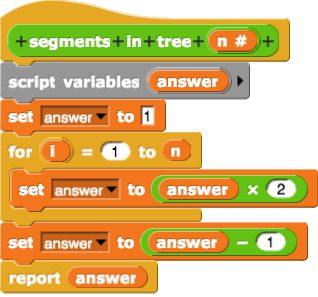
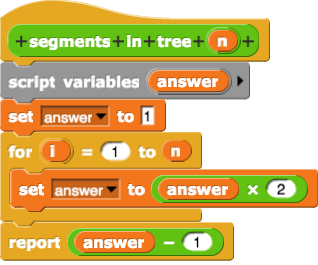
U7 L1 SE, TG complete
Dealt with suggested edits (except for two, marked). TG complete. One
graphic changed.

diff --git a/cur/teaching-guide/U7/lab-pages/1-recursive-reporters.html b/cur/teaching-guide/U7/lab-pages/1-recursive-reporters.html
@@ -8,38 +8,29 @@
 
 	<body>
 		<h2>Programming Lab 1: Recursive Reporters</h2>
-        <div class="comment">Pulled from <a href="/bjc-r/cur/teaching-guide/U7/old/u6-main.html?course=bjc4nyc_2015-2016_teacher.html&novideo&noassignment">old version</a> --MF</div>
-        <p>This short lab consists of a Getting Started in which students experiment with simple recursive functions, followed by an explanation of how recursive reporters differ in structure from recursive commands, and more simple exercises.</p> 		
+        <p>This lab extends the learning students have done about recursive commands to <strong>recursive reporters</strong>, functions that use recursions for organization and bookkeeping. Students create and experiment with simple recursive reporters, and learn how recursive reporters differ in structure from recursive commands.</p> 		
 
 		<h3>Pacing:</h3>
 		<div>
-			The 3 lab pages could be split across X or X days (X-X minutes). Expected times to complete follow:
+			The 3 lab pages could be split across 2 or 3 days (100-150 minutes). Expected times to complete follow:
 			<ul>
-				<li>X-X minutes (X-X class periods) on <a href="/bjc-r/cur/programming/7-recursive-reporters/1-recursive-reporters/1-counting-trees.html?topic=nyc_bjc%2F7-recursive-reporters.topic&course=bjc4nyc_2015-2016.html&novideo&noassignment">Counting Trees</a></li>
-				<li>X-X minutes (X-X class periods) on <a href="/bjc-r/cur/programming/7-recursive-reporters/1-recursive-reporters/2-working-with-reporters.html?topic=nyc_bjc%2F7-recursive-reporters.topic&course=bjc4nyc_2015-2016.html&novideo&noassignment">Working with Recursive Reporters</a></li>
-				<li>X-X minutes (X-X class periods) on <a href="/bjc-r/cur/programming/7-recursive-reporters/1-recursive-reporters/3-writing-recursive-reporters.html?topic=nyc_bjc%2F7-recursive-reporters.topic&course=bjc4nyc_2015-2016.html&novideo&noassignment">Writing Recursive Reporters</a></li>
+				<li>50-75 minutes (1-1.5 class periods) on <a href="/bjc-r/cur/programming/7-recursive-reporters/1-recursive-reporters/1-counting-trees.html?topic=nyc_bjc%2F7-recursive-reporters.topic&course=bjc4nyc_2015-2016.html&novideo&noassignment">Counting Trees</a> and <a href="/bjc-r/cur/programming/7-recursive-reporters/1-recursive-reporters/2-working-with-reporters.html?topic=nyc_bjc%2F7-recursive-reporters.topic&course=bjc4nyc_2015-2016.html&novideo&noassignment">Working with Recursive Reporters</a></li>
+				<li>50-75 minutes (1-1.5 class periods) on <a href="/bjc-r/cur/programming/7-recursive-reporters/1-recursive-reporters/3-writing-recursive-reporters.html?topic=nyc_bjc%2F7-recursive-reporters.topic&course=bjc4nyc_2015-2016.html&novideo&noassignment">Writing Recursive Reporters</a></li>
             </ul>
 		</div>
-
-
-		<h3>Prepare:</h3>
-		<div>
-			<ul>
-				<li></li>
-			</ul>
-		</div>
-
 
 		<h3>Students will:</h3>
 		<div class="sidenoteBig">
 			<strong>Looking Ahead</strong>
 			<ul>
-				<li></li>
+				<li>In the next lab, students will explore different sorting algorithms, one of the most common and valuable uses of recursive reporters.</li>
 			</ul>
 		</div>
 		<div>
 			<ul>
-				<li>...</li>
+				<li>Solve problems using recursive reporters.</li>
+				<li>Learn about the similarities and differences between recursive reporters and recursive commands.</li>
+				<li>Describe the use and utility of operations and combiners in recursive reporters.</li>
 			</ul>
 		</div> 
 			  
@@ -50,11 +41,12 @@
 				<li>
 					<strong>Page 1: Counting Trees.</strong>
 					<ul>
-						<li>Debugging: <a href="" target="_blank"></a></li>
 						<li>
-							Discussion: These discussion questions...
+							Discussion: What is a recursive reporter, and how does it behave?
 							<ul>
-								<li>...</li>
+								<li><strong>Important note:</strong> hold this discussion after students have worked on Betty's recursive reporter. If timing permits you can continue directly to the next page. Ask students to present their code for Betty's recursive reporter.</li>
+								<li>What does the recursive reporter call?</li>
+								<li>Why is a base case important?</li>
 							</ul>
 						</li>
 					</ul>
@@ -62,11 +54,12 @@
 				<li>
 					<strong>Page 2: Working with Recursive Reporters.</strong>
 					<ul>
-						<li>Debugging: <a href="" target="_blank"></a></li>
 						<li>
-							Discussion: These discussion questions...
+							Discussion: What issues do you have to think about when building a recursive reporter?
 							<ul>
-								<li>...</li>
+								<li>What does the <code>report</code> block do?</li>
+								<li>How can you be sure a recursive reporter will eventually reach a base case?</li>
+								<li>Why is <code>join words</code> useful in the recursive reporters on this page?</li>
 							</ul>
 						</li>
 					</ul>
@@ -74,30 +67,18 @@
 				<li>
 					<strong>Page 3: Writing Recursive Reporters.</strong>
 					<ul>
-						<li>Debugging: <a href="" target="_blank"></a></li>
 						<li>
-							Discussion: These discussion questions...
+							Discussion: How do I use operations and combiners in recursive reporters?
 							<ul>
-								<li>...</li>
+								<li>What math operations could be used in a recursive reporter, and how do they work?</li>
+								<li>What string operations could be used in a recursive reporter, and how do they work?</li>
+								<li>What list operations could be used in a recursive reporter, and how do they work?</li>
 							</ul>
 						</li>
 					</ul>
 				</li>
 			</ul>
 		</div>
-
-
-		<h3>Assignments:</h3>
-		<div><ul><li>...</li></ul></div>
-
-			
-		<!--<h3>Look For:</h3>
-		<div><ul><li>...</li></ul></div>
-
-			
-		<h3>Related Resources:</h3>
-		<div><ul><li>...</li></ul></div>-->
-
 			
 		<h3>Tips:</h3>
 		<div>
@@ -105,19 +86,30 @@
             	<li>
                 	<strong>Page 1: Counting Trees.</strong>
                     <ul>
-						<li>...</li>
+						<li>As students complete the table, see if they are using Snap<em>!</em> to do the work or are counting by hand. If counting by hand, students may miss some of the branches, and may miss the overall concept of finding a pattern from one level to the next. Remind them about the recursion in how <code>tree</code> is built.</li>
+						<li>Students may need a refresher on the phrase "power of two".</li>
+						<li>Even though there is a note on this page about it, students often forget they must hit <strong>Apply</strong> before they can use a block recursively.</li>
+						<li>For students having trouble writing the recursion, ask them what they would write in language. This may help them build a useful description.</li>
+						<li>It's okay to move on if not all students have successfully built the recursive reporter. Some correct code appears on the next page, and another opportunity is given to solve a similar problem.</li>
                     </ul>
                 </li>
             	<li>
                 	<strong>Page 2: Working with Recursive Reporters.</strong>
                     <ul>
-						<li>...</li>
+						<li>The work on the <code>triangles in fractal</code> block should go very similarly to the work on the previous page. Students may need a moment to figure out the relationship, either through a look back at the code from Unit 6, or by making a table.</li>
+						<li>One potential mistake here is for students to count only the smallest triangles. Resolve this by having students build a level 2 triangle fractal, then asking them to count the triangles. They should say there are 4 triangles, not 3, and this will help them discover the relationship.</li>
+						<li>For the two blocks involving list items, an important piece is that a recursive reporter needs to report one complete answer, which is why the <code>join words</code> combiner is used. The recursive command doesn't need to deal with this, because it can <code>say</code> each item then dump it. The use of these combiners will be the main focus on the next page.</li>
+						<li>If students have trouble with the final coding problem here, point them back to the <code>string items together from</code> block above. The code used here should be very similar, except that students need to adjust one of the endpoints for the recursive call. Note that this means there is more than one correct recursive call that can be used; if students finish early you can ask them to try and solve it another way.</li>
                     </ul>
                 </li>
             	<li>
                 	<strong>Page 3: Writing Recursive Reporters.</strong>
                     <ul>
-						<li>...</li>
+						<li>The initial exercise on factorial should be a good check of students' progress on the previous pages, especially their understanding of how to build a recursive call.</li>
+						<li>Students may have more difficulty using list and string operations than math operations in recursion. When possible, show how the list and string operations behave like math operations (producing a single answer from two, for example).</li>
+						<li>The <code>letter count</code> activity can be solved without recursion. If students do this, good! Show their solution along with the recursive solution. You should let these students know that learning recursion is still important, and that many problems are more easily solved with recursion.</li>
+						<li>If students are having trouble with building the recursive call in letter count, have them write a sentence, then cover up the first word. Then cover the first and second words. This could help them see the potential for a recursive solution.</li>
+						<li>If time is tight, skip the <code>my join words</code> task.</li>
                     </ul>
                 </li>
 			</ul>
@@ -127,13 +119,13 @@
 		<!--<h3>Solutions</h3>
 		<div><ul><li>...</li></ul></div>-->
 			
-			
+<!--			
 		<h3>Correlation with AP CS Principles Framework<a name="AP" class="anchor">&nbsp;</a></h3>
 		<div class="apStandards">
-			<!--<h4>Computational Thinking Practices:</h4>
+			<h4>Computational Thinking Practices:</h4>
 			<ul>
 				<li>Coming soon...</li>
-			</ul>-->
+			</ul>
 			<h4>Essential Understandings:</h4>
 			<ul>
 				<li>Coming soon...</li>
@@ -147,7 +139,7 @@
 				<li>Coming soon...</li>
 			</ul>
 		</div>			
-
+-->
 
 	</body>
 </html>

diff --git a/cur/programming/7-recursive-reporters/1-recursive-reporters/3-writing-recursive-reporters.html b/cur/programming/7-recursive-reporters/1-recursive-reporters/3-writing-recursive-reporters.html
@@ -45,10 +45,8 @@
         <div class="forYouToDo">
             <p>Word processing programs count the number of words and letters in documents. One way to count the number of letters in a phrase is to use a recursive reporter.</p>
             <ol start="4">
-                <div class="commentBig">Can we use a phrase that is more familiar to the high schooler's experience? --MF</div>
+                <div class="commentBig">Can we use a phrase that is more familiar to the high schooler's experience? --MF  Such as? These are the first words of the Declaration of Independence. I do not want to use the Pledge of Allegiance. -BK</div>
                 <li>The phrase <strong>"in the course of human events"</strong> has 24 letters. How many letters are there in the phrase <strong>"When in the course of human events"</strong>?</li>
-                <li><div class="commentBig">I had to read this ("37-word" problem) many times to understand. Wording might need an adjustment. --MF</div>
-                How does the number of letters in a 37-word sentence compare to the number of letters in its last 36 words?</li>
                 <li>Recursion always needs a base case to stop the script from calling itself forever. What sort of base case might we use for this situation?</li>
                 <li>
                 	Create a <code>letter count</code> block that takes a list of words as input and reports the total number of letters in all the words. The <code>all but first of</code> block may be useful, but there is more than one way to do this.<br />
@@ -64,7 +62,9 @@
                 <div class="todo">
                     <p>Again, I am  concerned with teaching recursion as "a more complicated way to do what you already know how to do." I don't think <code>my join words</code> works because it can be done so much more quickly <em>non-recursively</em> by using <code>combine</code>. I <em>do</em> like <code>letter count</code> though because it <em>does</em> simplify the code. --MF<br />
                     <img class="indent" src="/bjc-r/img/7-recursive-reporters/recursive-letter-count.png" alt="" title="" /></p>
-                    <p>As noted in email, I don't think <code>letter count</code> is an exception, as Mary does. But more important, I don't think students can easily compare their <code>my join words</code> with the <code>join words</code> in the tools library, because the latter is variadic, taking multiple strings as inputs rather than taking one single list of strings. As a result, its code uses the sort of hidden and obscure &quot;input list&quot; feature of Snap<em>!</em>, which we haven't taught and I'd rather avoid teaching, at least in the middle of teaching other hard stuff. --bh</p>
+                    <p>As noted in email, I don't think <code>letter count</code> is an exception, as Mary does. But more important, I don't think students can easily compare their <code>my join words</code> with the <code>join words</code> in the tools library, because the latter is variadic, taking multiple strings as inputs rather than taking one single list of strings. As a result, its code uses the sort of hidden and obscure &quot;input list&quot; feature of Snap<em>!</em>, which we haven't taught and I'd rather avoid teaching, at least in the middle of teaching other hard stuff. --bh
+					</p>
+					<p>I need a suggestion to change this. Or is the suggestion to delete the join-words task? Any other things to replace it? Also we should use "empty?" when possible, not "length = 0". -BK</p>
                 </div>
             </ol>
         </div>
@@ -74,13 +74,9 @@
         <div class="forYouToDo">
             <ol start="9">
                 <li>
-                    Build this <code>plurals</code> block, then describe how it works. (Yes, you've already built a simpler version of <code>plurals</code> using <code>map</code>; we want you to see that the same problem can be solved in multiple ways.)<br />
+                    Build this <code>plurals</code> block, then describe how it works. (You've already built a simpler version of <code>plurals</code> using <code>map</code>; we want you to see that the same problem can be solved in multiple ways.)<br />
                     <img class="indent" src="/bjc-r/img/7-recursive-reporters/plurals.png" alt="plurals" />
                 </li>
-                <div class="todo">
-                  <p>I updated the zoom on this pic, but I still have concerns with the recursion approach that is used here too. --MF</p>
-                  <p>I want to keep this example because of L4, so I added some justifying text here. --bh</p>
-                </div>
             </ol>
         </div>
     

diff --git a/cur/programming/7-recursive-reporters/1-recursive-reporters/2-working-with-reporters.html b/cur/programming/7-recursive-reporters/1-recursive-reporters/2-working-with-reporters.html
@@ -87,7 +87,7 @@
                 </li >
                 <img class="imageRight" src="/bjc-r/img/icons/talk-with-your-partner.png" alt="Talk with Your Partner" title="Talk with Your Partner" />
 				<li>Describe the major differences between the two blocks above.</li>
-				<div class="todo">It sounds like we are asking for <em>one right answer</em> here ("the biggest difference"). If so, we should word it differently. I'm not sure what the right answer is: "one is a command and the other a reporter" or "one uses <code>stop</code> and the other uses <code>report</code>" or "one has a terminating block only in the base case, but the other has it in either case"? My question to us is: what are we trying to highlight and how can we get them to focus on that? --MF (+1 --bh)</div>
+<!--				<div class="todo">It sounds like we are asking for <em>one right answer</em> here ("the biggest difference"). If so, we should word it differently. I'm not sure what the right answer is: "one is a command and the other a reporter" or "one uses <code>stop</code> and the other uses <code>report</code>" or "one has a terminating block only in the base case, but the other has it in either case"? My question to us is: what are we trying to highlight and how can we get them to focus on that? --MF (+1 --bh) Reasonably addressed? BK</div> -->
                 <li>What are some similarities between the two blocks?</li>
                 <li>What does <code>all but first of</code> do?</li>
                 <li>

diff --git a/cur/programming/7-recursive-reporters/1-recursive-reporters/1-counting-trees.html b/cur/programming/7-recursive-reporters/1-recursive-reporters/1-counting-trees.html
@@ -57,9 +57,6 @@
             <div><span>Alphie:</span> I noticed a pattern in the table. Each number of segments is one less than a power of 2.</div>
             <div><span>Betty:</span> What does your code look like?</div>
             <div><span>Alphie:</span> I used a <code>for</code> loop to build the power of 2, then I subtracted 1 at the end:<br /></div>
-			<div class="comment">
-			  <p>I think the last two lines should be replaced with REPORT (ANSWER - 1) --bh Agreed, still need to edit graphic. -BK</p>
-			</div>
             <div class="stagedir"><img src="/bjc-r/img/7-recursive-reporters/alphiecode.png" alt="Alphie's code"></div>
 			<div><span>Alphie:</span>At the end, the <code>report</code> block sends the final value. I put the last math operation there.</div>
             <div><span>Betty:</span> Wow. Mine looks a lot different! I made the code look like the code for <code>tree</code>.</div>
